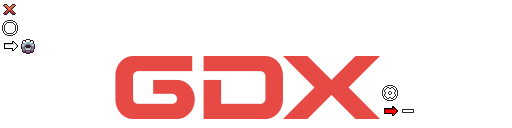
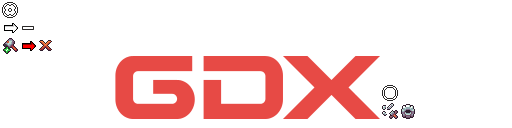
Ya se pueden borrar armas custom. Mejoras de botones e interfaz en el menu pre-partida.

Changed region(s): [[0.0, 0.0, 0.125, 0.4375], [0.75, 0.8125, 0.8125, 0.9375], [0.75, 0.7188, 0.7812, 0.75]]

diff --git a/core/src/main/java/com/tikisadventure/screens/MenuGodMode.java b/core/src/main/java/com/tikisadventure/screens/MenuGodMode.java
@@ -1,6 +1,7 @@
 package com.tikisadventure.screens;
 
 import com.badlogic.gdx.Gdx;
+import com.badlogic.gdx.graphics.g2d.TextureRegion;
 import com.badlogic.gdx.scenes.scene2d.Actor;
 import com.badlogic.gdx.scenes.scene2d.InputEvent;
 import com.badlogic.gdx.scenes.scene2d.Stage;
@@ -11,7 +12,9 @@ import com.badlogic.gdx.utils.Array;
 import com.badlogic.gdx.utils.JsonReader;
 import com.badlogic.gdx.utils.JsonValue;
 import com.badlogic.gdx.utils.ObjectMap;
+import com.tikisadventure.core.Assets;
 import com.tikisadventure.core.GameSession;
+import com.tikisadventure.ui.DeleteWeaponUI;
 
 public class MenuGodMode {
 
@@ -33,13 +36,32 @@ public class MenuGodMode {
 
     public void inyectarInterfaz(Table tablaDestino) {
         CheckBox godModeCheck = new CheckBox("MODO DIOS", uiSkin);
-        godModeCheck.setChecked(GameSession.godMode); // Recordar el estado si vuelves al menú
+        godModeCheck.setChecked(GameSession.godMode);
 
         customGodButton = new TextButton("Parametros", uiSkin);
-        customGodButton.setVisible(GameSession.godMode); // Solo visible si está activado
+        customGodButton.setVisible(GameSession.godMode);
 
-        final TextButton btnCrearArma = new TextButton("Crear Arma", uiSkin);
+        // --- BOTONES CON FONDO GRIS Y SPRITE DENTRO ---
+        TextureRegion texCreate = Assets.getRegion("shared", "UI_assets/CreateWeapon");
+        TextureRegion texDelete = Assets.getRegion("shared", "UI_assets/DeleteWeapon");
+
+        if (texCreate == null) texCreate = Assets.getRegion("shared", "UI_assets/UI_Crosshair");
+        if (texDelete == null) texDelete = Assets.getRegion("shared", "UI_assets/UI_Crosshair");
+
+        // Botón Crear
+        final Button btnCrearArma = new Button(uiSkin); // Esto le pone el fondo gris estándar
+        Image imgCreate = new Image(texCreate);
+        imgCreate.setScaling(com.badlogic.gdx.utils.Scaling.fit);
+        btnCrearArma.add(imgCreate).size(28, 28).expand().center(); // Tamaño de la imagen interior
+
+        // Botón Borrar
+        final Button btnBorrarArma = new Button(uiSkin); // Fondo gris estándar
+        Image imgDelete = new Image(texDelete);
+        imgDelete.setScaling(com.badlogic.gdx.utils.Scaling.fit);
+        btnBorrarArma.add(imgDelete).size(28, 28).expand().center(); // Tamaño de la imagen interior
+
         btnCrearArma.setVisible(GameSession.godMode);
+        btnBorrarArma.setVisible(GameSession.godMode);
 
         godModeCheck.addListener(new ChangeListener() {
             @Override
@@ -47,8 +69,7 @@ public class MenuGodMode {
                 GameSession.godMode = godModeCheck.isChecked();
                 customGodButton.setVisible(GameSession.godMode);
                 btnCrearArma.setVisible(GameSession.godMode);
-
-                System.out.println("Modo Dios activado: " + GameSession.godMode);
+                btnBorrarArma.setVisible(GameSession.godMode);
             }
         });
 
@@ -71,14 +92,34 @@ public class MenuGodMode {
             }
         });
 
+        btnBorrarArma.addListener(new ClickListener() {
+            @Override
+            public void clicked(InputEvent event, float x, float y) {
+                new DeleteWeaponUI(uiSkin, stage, new Runnable() {
+                    @Override
+                    public void run() {
+                        actualizarDesplegablesArmas();
+                    }
+                }).show();
+            }
+        });
+
+        // Empaquetamos los dos botones cuadrados en una sub-tabla
+        Table botonesCustomTable = new Table();
+        // Aquí definimos el tamaño del botón exterior (40x40)
+        botonesCustomTable.add(btnCrearArma).size(40, 40).padRight(10);
+        botonesCustomTable.add(btnBorrarArma).size(40, 40);
+
         tablaDestino.row();
         tablaDestino.add(godModeCheck).left().bottom().pad(10);
         tablaDestino.row();
         tablaDestino.add(customGodButton).left().padLeft(10);
         tablaDestino.row();
-        tablaDestino.add(btnCrearArma).left().padLeft(10).padTop(5);
+        // Añadimos la sub-tabla
+        tablaDestino.add(botonesCustomTable).left().padLeft(10).padTop(5);
     }
 
+    // ... EL RESTO DE LA CLASE SIGUE IGUAL (crearVentanaModoDios y actualizarDesplegablesArmas) ...
     @SuppressWarnings("unchecked")
     private void crearVentanaModoDios() {
         customGodDialog = new Dialog("Parametros", uiSkin);
@@ -214,8 +255,6 @@ public class MenuGodMode {
 
         for (JsonValue abilityEntry : abilityData) {
             String abilityId = abilityEntry.name;
-
-            // Filtramos la habilidad Dash para que solo salgan granadas/gadgets reales
             if (abilityId.toLowerCase().contains("dash")) continue;
 
             String displayName = abilityEntry.getString("name", abilityId);
@@ -233,7 +272,6 @@ public class MenuGodMode {
             }
         });
 
-        // Forzamos la Habilidad 1 a null para que siempre cargue el Dash por defecto
         GameSession.godModeAbility1Id = null;
         GameSession.godModeAbility2Id = gadgetNameToIdMap.get(gadgetSelector.getSelected());
 
@@ -242,7 +280,6 @@ public class MenuGodMode {
 
         customGodDialog.getContentTable().add(tablaArmas).colspan(2).padBottom(15).row();
 
-        // Cuadrícula de Gadget (Unificada)
         customGodDialog.getContentTable().add(new Label("Gadget:", uiSkin)).padRight(10).right();
         customGodDialog.getContentTable().add(gadgetSelector).width(200).padTop(5).padBottom(10).left().row();
 
@@ -277,7 +314,7 @@ public class MenuGodMode {
         }
 
         for (GameSession.CustomWeaponConfig custom : GameSession.customWeapons.values()) {
-            String displayCustomName = custom.name + " (Custom)";
+            String displayCustomName = custom.name + " [C]";
             weaponNames.add(displayCustomName);
             weaponNameToIdMap.put(displayCustomName, custom.id);
         }

diff --git a/core/src/main/java/com/tikisadventure/ui/DeleteWeaponUI.java b/core/src/main/java/com/tikisadventure/ui/DeleteWeaponUI.java
@@ -1,0 +1,143 @@
+package com.tikisadventure.ui;
+
+import com.badlogic.gdx.graphics.g2d.TextureRegion;
+import com.badlogic.gdx.scenes.scene2d.InputEvent;
+import com.badlogic.gdx.scenes.scene2d.Stage;
+import com.badlogic.gdx.scenes.scene2d.ui.*;
+import com.badlogic.gdx.scenes.scene2d.utils.ClickListener;
+import com.tikisadventure.core.Assets;
+import com.tikisadventure.core.GameSession;
+
+public class DeleteWeaponUI extends Window {
+
+    private Table listTable;
+    private Skin skin;
+    private Stage stage;
+    private Runnable onWeaponDeleted;
+
+    public DeleteWeaponUI(Skin skin, Stage stage, Runnable onWeaponDeleted) {
+        super("Borrar Armas Custom", skin);
+        this.skin = skin;
+        this.stage = stage;
+        this.onWeaponDeleted = onWeaponDeleted;
+
+        setModal(true);
+        setMovable(true);
+        setResizable(false);
+        pad(15);
+        padTop(35);
+
+        // Tabla interna que albergará la lista de armas
+        listTable = new Table();
+        listTable.top();
+
+        // Creamos el Slider / ScrollPane
+        ScrollPane scrollPane = new ScrollPane(listTable, skin);
+        scrollPane.setFadeScrollBars(false);
+        scrollPane.setScrollingDisabled(true, false); // Solo scroll vertical
+
+        add(scrollPane).width(350).height(200).row();
+
+        TextButton btnCerrar = new TextButton("Cerrar", skin);
+        btnCerrar.addListener(new ClickListener() {
+            @Override
+            public void clicked(InputEvent event, float x, float y) {
+                remove();
+            }
+        });
+
+        add(btnCerrar).padTop(15).width(120);
+
+        refreshList();
+        pack();
+
+        // Centrar en pantalla
+        setPosition(Math.round((stage.getWidth() - getWidth()) / 2f), Math.round((stage.getHeight() - getHeight()) / 2f));
+    }
+
+    public void show() {
+        stage.addActor(this);
+    }
+
+    private void refreshList() {
+        listTable.clearChildren();
+
+        // Cargamos la X roja
+        TextureRegion xTex = Assets.getRegion("shared", "UI_assets/UI_X");
+        if (xTex == null) xTex = Assets.getRegion("shared", "UI_assets/UI_Crosshair");
+
+        // Si no hay armas creadas
+        if (GameSession.customWeapons.size == 0) {
+            listTable.add(new Label("No tienes armas custom creadas.", skin)).pad(20);
+            return;
+        }
+
+        // Iterar por cada arma guardada
+        for (final GameSession.CustomWeaponConfig conf : GameSession.customWeapons.values()) {
+
+            // --- NUEVO: Convertimos toda la fila en un botón ---
+            Button rowButton = new Button(skin);
+
+            // Nombre del arma
+            Label nameLabel = new Label(conf.name, skin);
+
+            // Imagen de la X (ya no es un ImageButton, solo la imagen escalada)
+            Image imgDelete = new Image(xTex);
+            imgDelete.setScaling(com.badlogic.gdx.utils.Scaling.fit);
+
+            // Al hacer clic en CUALQUIER PARTE de la fila, sale el aviso
+            ClickListener deleteListener = new ClickListener() {
+                @Override
+                public void clicked(InputEvent event, float x, float y) {
+                    showConfirmDialog(conf);
+                }
+            };
+            rowButton.addListener(deleteListener);
+
+            // Añadimos los elementos al botón/fila
+            rowButton.add(nameLabel).expandX().left().padLeft(15);
+
+            // --- NUEVO: Aumentamos el tamaño de la X a 40x40 ---
+            rowButton.add(imgDelete).size(40, 40).right().padRight(15).padTop(5).padBottom(5);
+
+            // Añadimos el botón a la lista general con un poco de separación
+            listTable.add(rowButton).padBottom(8).fillX().expandX().row();
+        }
+    }
+
+    private void showConfirmDialog(final GameSession.CustomWeaponConfig conf) {
+        final Dialog confirm = new Dialog("Aviso", skin);
+        confirm.text("¿Seguro que quieres borrar\n" + conf.name + "?");
+        confirm.pad(20);
+
+        TextButton btnSi = new TextButton("SI", skin);
+        btnSi.addListener(new ClickListener() {
+            @Override
+            public void clicked(InputEvent event, float x, float y) {
+                // Borramos de la RAM y guardamos en el disco
+                GameSession.customWeapons.remove(conf.id);
+                GameSession.saveCustomWeapons();
+
+                // Refrescamos la lista visual
+                refreshList();
+
+                // Avisamos a MenuGodMode para que quite el arma de los desplegables
+                if (onWeaponDeleted != null) onWeaponDeleted.run();
+
+                confirm.hide();
+            }
+        });
+
+        TextButton btnNo = new TextButton("NO", skin);
+        btnNo.addListener(new ClickListener() {
+            @Override
+            public void clicked(InputEvent event, float x, float y) {
+                confirm.hide();
+            }
+        });
+
+        confirm.getButtonTable().add(btnSi).width(80).pad(10);
+        confirm.getButtonTable().add(btnNo).width(80).pad(10);
+        confirm.show(stage);
+    }
+}

diff --git a/core/src/main/java/com/tikisadventure/screens/MenuMapScreen.java b/core/src/main/java/com/tikisadventure/screens/MenuMapScreen.java
@@ -201,7 +201,7 @@ public class MenuMapScreen implements Screen {
 
         // --- MODO DIOS ---
         Table tableGod = new Table();
-        tableGod.setPosition(100, 100);
+        tableGod.setPosition(100, 80);
         godModeManager.inyectarInterfaz(tableGod);
         stage.addActor(tableGod);
 
